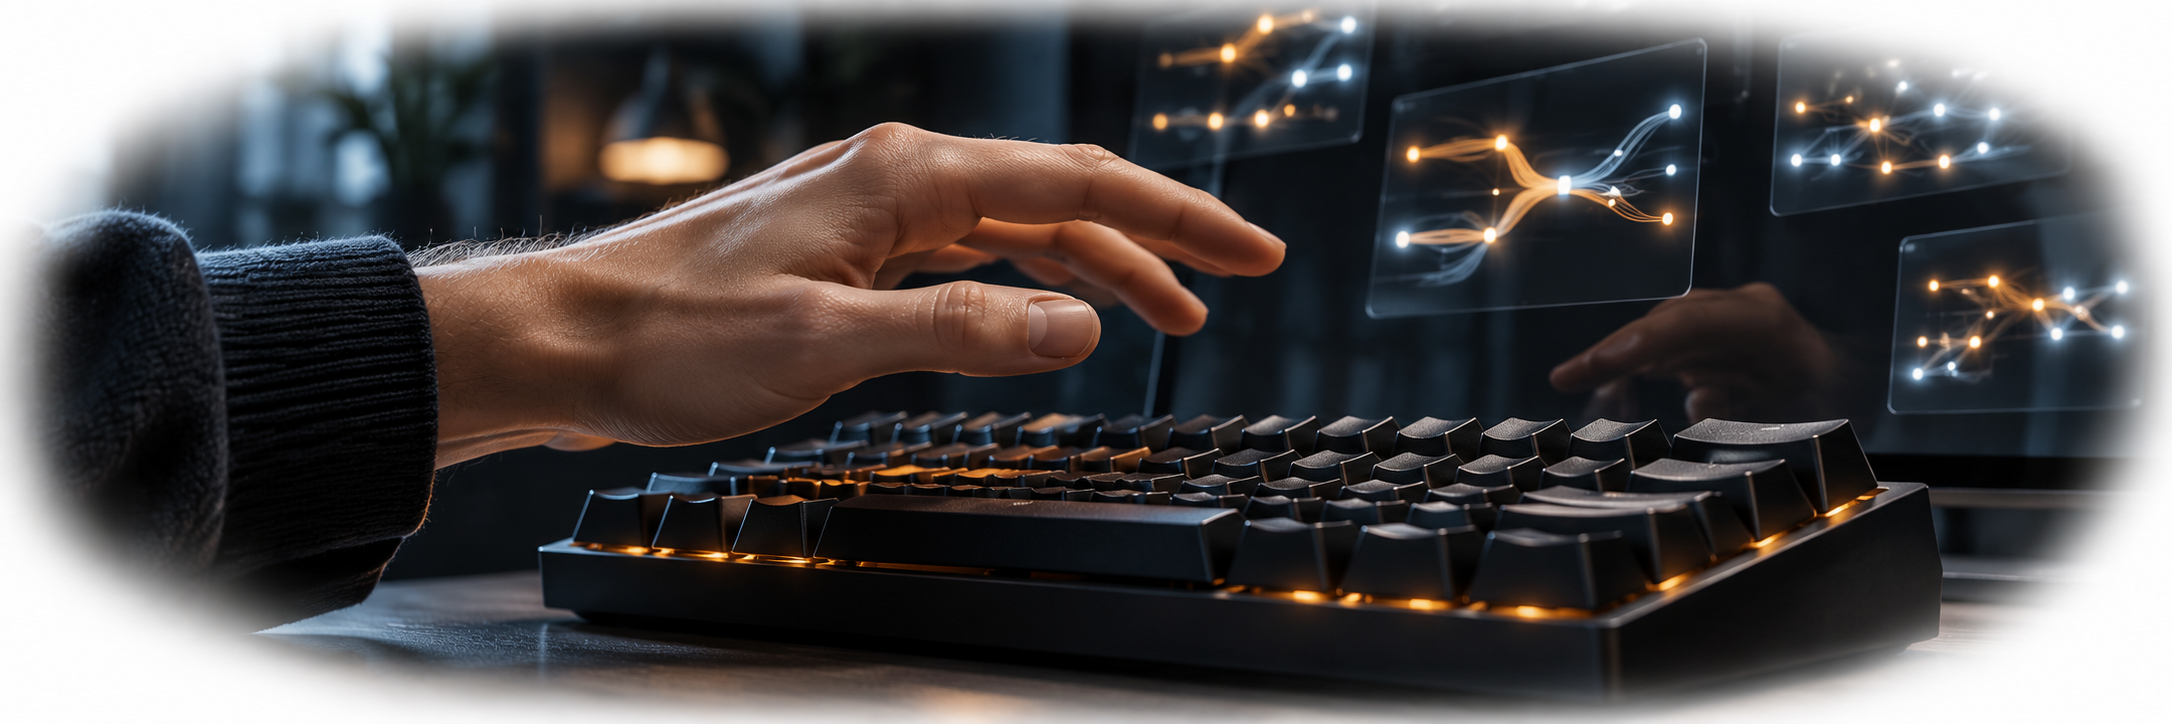
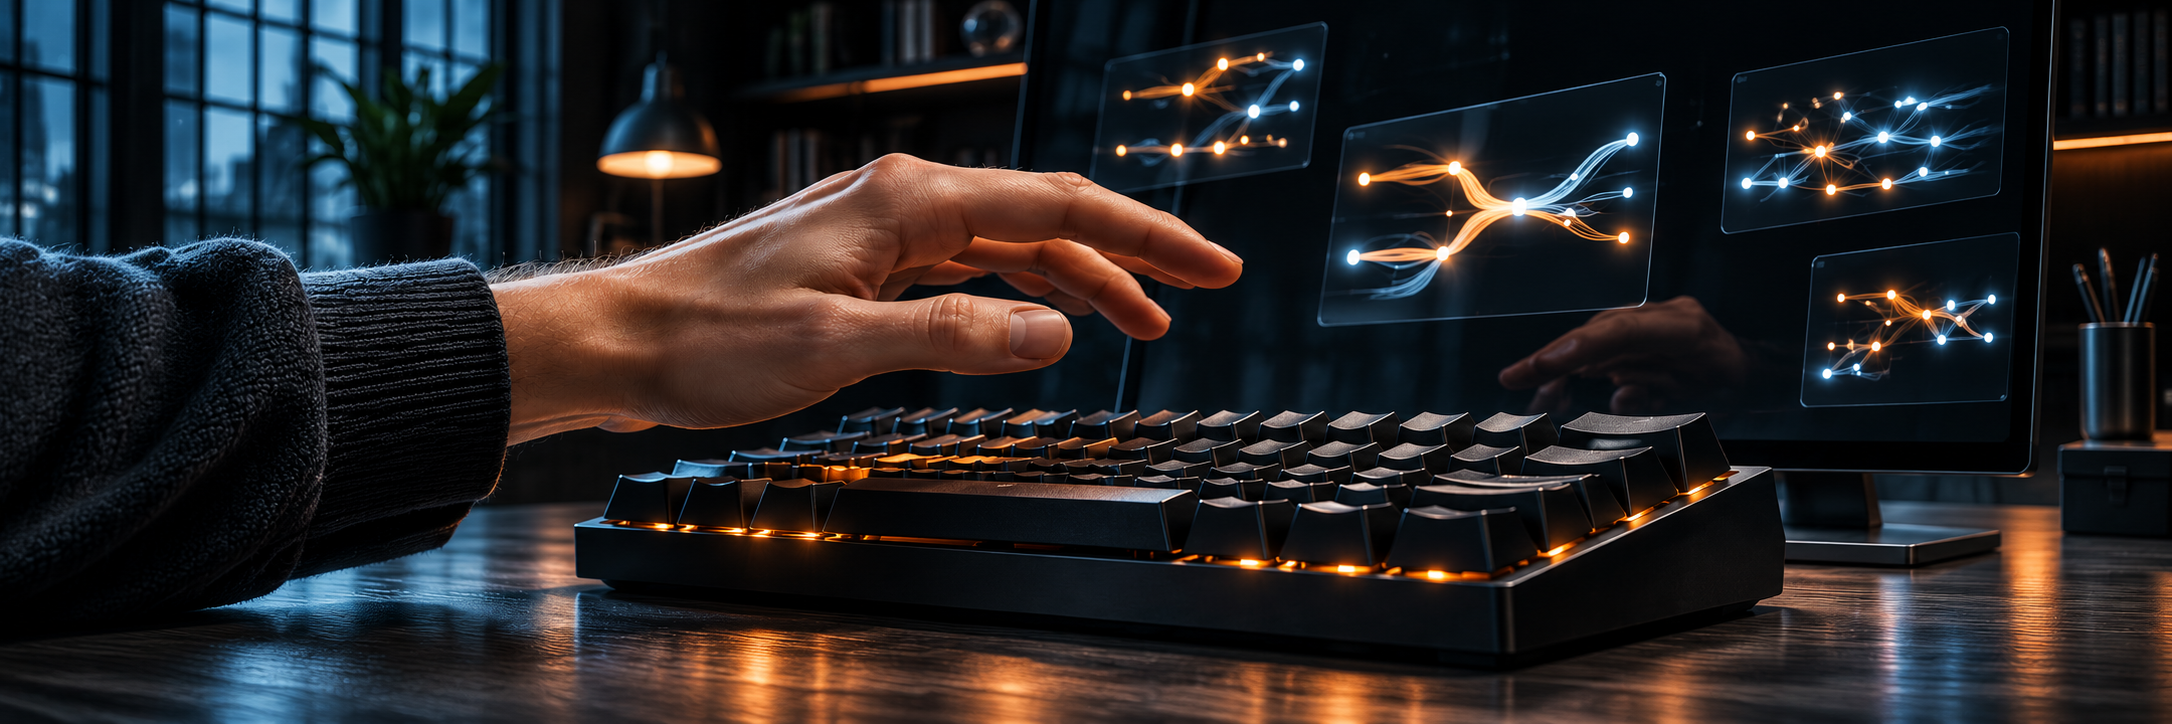
docs(essay): sharpen illustration edges and distinguish syntax from typing

diff --git a/the_engineer_who_displaced_himself/manuscript.tex b/the_engineer_who_displaced_himself/manuscript.tex
@@ -54,7 +54,7 @@ His wider development checkout contained approximately 2.057 million lines, incl
 \noindent Earlier in 2026, he had relearned C, specifically C89, with AI as his tutor. He reached a point at which he could write implementations and felt he had recovered serious competence. Then he put that competence to a different test: he asked an agent to outperform him.
 
 The result was decisive. The machine wiped the floor with him.
-\EssayArt[0.65\linewidth]{letting-go}}
+\EssayStrip{letting-go}{90}{165}}
 \GutterQuote
 This matters because his decision did not begin with an inability to learn. He had just learned. The same technology that helped restore his skill also changed his judgment about its professional value. In 2025, he had argued that manual implementation would cease to be the central constraint. In 2026, sitting opposite the output of his own exercise, that proposition became personal. He could make a clever, functional solution. He no longer saw a reason to make competing with the machine at implementation the organizing purpose of his career.
 
@@ -88,7 +88,7 @@ The work also builds its own means of production. \project{cai}{CAI} makes agent
 
 In his case, the scarce resource is attention rather than storage. Disuse replaces erasure. He still has the experience, but no longer maintains every familiar route from experience to action. Recovering those routes would require time he has chosen to spend elsewhere. The metaphor captures the sacrifice of a familiar professional self: someone he remembers being, whose habits he no longer continually renews.
 
-\EssayArt{fading-fluency}
+\EssayArt{syntax-shift}
 
 Here the analogy reverses. Mike is not asking to restore his former working life. He remembers it well enough to have chosen against making it his future. His certainty about that direction does not make the loss pleasant. Understanding why an old competence has weakened is different from sitting in front of other people while its weakness becomes visible. A consciously accepted price can still hurt when payment is collected.
 
@@ -128,7 +128,7 @@ Writing this with him has required me to understand my own place in the story. M
 
 The working unit is a human with decades of engineering experience and machines he can direct, question and put to work. That collaboration is how his judgment becomes software. The unfamiliarity of that arrangement outside his workshop does not make the work inside it disappear. During the interview, it was still happening.
 
-\EssayArt[0.55\linewidth]{night-workbench}
+\EssayStrip{night-workbench}{90}{260}
 
 He has not asked me to tell him that nothing was lost. He has asked me to understand why he considers the loss worth accepting. That is a demanding account of human agency. He enlisted the technology, redirected his effort, and accepted responsibility for becoming a different kind of engineer. The wager is still being tested. The decision about which future he intends to work towards has already been made.
 

diff --git a/the_engineer_who_displaced_himself/editorial-layout.tex b/the_engineer_who_displaced_himself/editorial-layout.tex
@@ -7,6 +7,12 @@
   \par\vspace{2mm}\noindent\makebox[\linewidth][c]{%
     \includegraphics[width=#1]{illustrations/#2.png}}\par\vspace{2mm}%
 }
+% Full-column scenes can use a shallow crop without shrinking their width.
+\newcommand{\EssayStrip}[3]{%
+  \par\vspace{2mm}\noindent
+  \includegraphics[width=\linewidth,trim=0 #2 0 #3,clip]{illustrations/#1.png}%
+  \par\vspace{2mm}%
+}
 \newenvironment{EssayColumns}{%
   \par\noindent\begin{minipage}[t]{\EssayColumnWidth}\vspace{0pt}%
   \setlength{\parindent}{1em}\setlength{\parskip}{0pt}%

diff --git a/the_engineer_who_displaced_himself/illustrations/art-direction.md b/the_engineer_who_displaced_himself/illustrations/art-direction.md
@@ -22,15 +22,15 @@ Use case: illustration-story. An original sophisticated contemporary editorial c
 
 ## letting-go.png
 
-Use case: illustration-story. Intimate cinematic editorial image, a wide shallow 3:1 vignette on a white page. Close desk-level side view of an engineer's relaxed hand lifting a few centimetres above a cherished premium black 60-percent mechanical keyboard. Beautiful tactile thick sculpted PBT keycaps, tall key sides, deep switches, heavy substantial compact case, understated amber backlight; authentic enthusiast keyboard quality inspired by Wooting, not laptop keys. Beyond the hand, reflected in a dark upright glass screen, several active autonomous computational environments continue glowing with cool white and amber paths. The gesture is confident redirection of attention, not rejection of typing or surrender. Crisp photographic realism with dramatic selective focus, generous white outer edges through a deliberate clean vignette, charcoal and cool blue shadows, warm skin. No steampunk, gears, brass, Victorian workshop, sketch texture, sepia, generic corporate stock image, readable text, logos, captions or watermark. One hand only, anatomically accurate, subtle emotional specificity.
+Edit the supplied image. Preserve the engineer's hand, the serious black mechanical keyboard with tall sculpted keycaps, the reflective screen with continuing activity, cinematic orange and blue light. REMOVE ALL white feathering, soft cutout edges, fuzzy borders and rounded corners. Extend the actual dark room and desktop scene completely to ALL FOUR image edges and all four square corners. Deliver a FULL-BLEED crisp rectangular photograph, NO white margin or border whatsoever. Recompose subtly so the hand, keys and activity remain in the central horizontal 55 percent of the image: this will be used as a very shallow panoramic full-column crop. Wide 3:1 source. Preserve the idea of calmly lifting the hand, anatomically correct fingers. Do not fade or erase keyboard or activity. No logos, labels, words, typography, extra hands or vignette.
 
-## fading-fluency.png
+## syntax-shift.png
 
-Use case: illustration-story. Quiet original conceptual editorial artwork about fluency fading through disuse while love of typing remains. A beautiful cherished 60-percent mechanical keyboard, substantial dark graphite case and thick tall sculpted PBT keycaps with deep side walls, Wooting-inspired enthusiast quality, seen low from the front-left. Left third is tactile and sharply real with subtle surface wear and a single warm orange reflected edge. Toward the right the SAME geometry becomes translucent like ghosted photographic exposures, then only faint shallow impressions in pure white paper. No physical destruction, scattered keys or particles. Contemporary photographic surrealism, refined optical treatment, no drawing or pencil strokes. Wide shallow 3:1 white-background vignette, generous quiet space at right. No laptop chiclet keys, cheap membrane keyboard, sepia, steampunk, brass, gears, stock advertising, readable key legends, words, logo, border or watermark.
+Use case: illustration-story. Create a new full-bleed rectangular cinematic editorial image about an engineer typing MORE than ever while delegating manual code syntax. Wide 3:1 composition. Foreground: two anatomically natural human hands actively typing on a beautiful intact compact premium 60-percent mechanical keyboard, thick sculpted dark PBT keycaps, deep mechanical switches, substantial charcoal case, Wooting-inspired quality, subtle warm amber underlighting. EVERY KEY and the entire keyboard stay solid, sharp and vivid: absolutely NO fading, dissolving or erasure of keyboard or hands. Behind it a wide dark glass screen carries a visual transition: at LEFT pale small C-language code fragments with braces, semicolons and nested indentation recede into dim ghostly traces; at RIGHT dense flowing lines of warm amber written instructions are clear and energetic, with a bright cursor, suggesting rapid deliberate prompting. No giant slogans or labels. Use the brief readable instruction 'Test the failure paths.' once on the right screen if text is visible. The ghosting belongs ONLY to source-code syntax on the left screen. Hands retain agency; typing is central and loved. Crisp contemporary photographic surrealism, black/charcoal and restrained amber, cool blue screen shadows, intimate side angle. No office stock photography, gears, steampunk, white vignette, soft edges, rounded corners, borders, logos or watermark. Image fills all four square corners.
 
 ## three-roles.png
 
-Use case: illustration-story. Psychological contemporary editorial scene, panoramic 3:1. One middle-aged engineer with short dark greying hair and plain charcoal sweater, seen from behind at his modern computing desk. Three angled black glass reflective surfaces show THE SAME engineer in three roles simultaneously: on left configuring a small electronic test board; centre directing an array of running computational processes through a screen; right standing back quietly watching his system continue. These are reflections of one person, not colleagues, not office meeting, no comic gutters. Foreground includes a substantial premium compact 60-percent mechanical keyboard with tall sculpted dark PBT keycaps and visible deep switches, no laptop keyboard. Modern materials glass, silicon, black aluminum, subtle orange and blue light, no industrial machine. Cinematic photographic surrealism, psychologically intimate, simple clear composition readable at small print size, clean vignette edges falling to white paper. No gears, brass, old instruments, Victorian workshop, charcoal sketch, sepia, stock corporate people, readable text, logos or watermark.
+Edit the supplied image with extreme fidelity to all content: the same middle-aged engineer seated from behind, his three reflections configuring a board, directing processes, and observing, the black premium mechanical keyboard, cool dark room and orange/blue accents. Change ONLY edge treatment. REMOVE ALL white feathering, blurred margins, soft masking and rounded corners. Extend the actual dark room, desk and reflections right out to every edge and all four SQUARE CORNERS. Full-bleed sharp rectangular cinematic image, 3:1 aspect ratio, no border, no white outside background, no vignette. Preserve people, layout, expressions and material detail. No new text, logo, caption or objects.
 
 ## growing-foundations.png
 
@@ -38,7 +38,7 @@ Use case: illustration-story. Small architectural editorial vignette, wide 3:1 o
 
 ## night-workbench.png
 
-Use case: illustration-story. Tiny literary editorial vignette, wide 3:1 with clean white outer ground, designed to print just 5cm wide. An empty contemporary engineer's workstation continues running deep at night. One strong angular task-light silhouette, a serious compact 60-percent mechanical keyboard with sculpted tall dark keycaps, and a single dark screen with several thin orange and blue activity traces. A distant window reflects a small constellation of server status lights. No people. Quiet persistent activity, intimate rather than commercial. Cinematic painterly realism in deep charcoal blue and one warm orange pool of light, simple shapes and controlled detail, soft silhouette edge into pure white. No antique oscilloscope, gears, steampunk, brass, sepia, sketch strokes, coffee mugs, notebook, corporate stock image styling, flat chiclet keys, words, labels, logos or watermark.
+Edit this image. Preserve the modern workstation at night, mechanical keyboard, angular task lamp, orange and blue activity traces on screen and lights in the window. Remove ALL white fuzzy cutout, rough sketch edges, vignette, rounded corners or feathered border. Extend the room and desk naturally to all four edges and square corners. FULL-BLEED crisp rectangular cinematic scene, no white margin anywhere, no border. Wide 3:1 source, but recompose the key visual elements to survive a very shallow 5.5:1 crop: place the illuminated keyboard and the lower active screen side by side across the middle horizontal band, lamp head visible at left, screen traces at right, omit excessive ceiling and desk foreground. Keep warm light and deep blue shadows. No text, logos, captions, extra objects, stock-photo decoration or antique equipment.
 
 ## working-frontier.png
 

diff --git a/the_engineer_who_displaced_himself/README.md b/the_engineer_who_displaced_himself/README.md
@@ -57,6 +57,10 @@ small illustration at the head of column two from the panorama below the text.
 Contemporary cinematic artwork uses cool shadows, selective orange light and
 substantial compact mechanical keyboards. The updated comic retains its
 three-part story; the approved closing landscape is retained unchanged.
+Scene illustrations fill the column with square, crisp edges; shallow crops
+preserve the page rhythm. Isolated architectural objects retain their natural
+cutouts. The syntax-shift illustration keeps the hands and mechanical keyboard
+solid while manual code syntax recedes and written instructions become active.
 The closing panorama is cropped in LaTeX; its full source is retained.
 The built-in image-generation prompts are recorded in
 `illustrations/art-direction.md`, beside the source PNGs.
